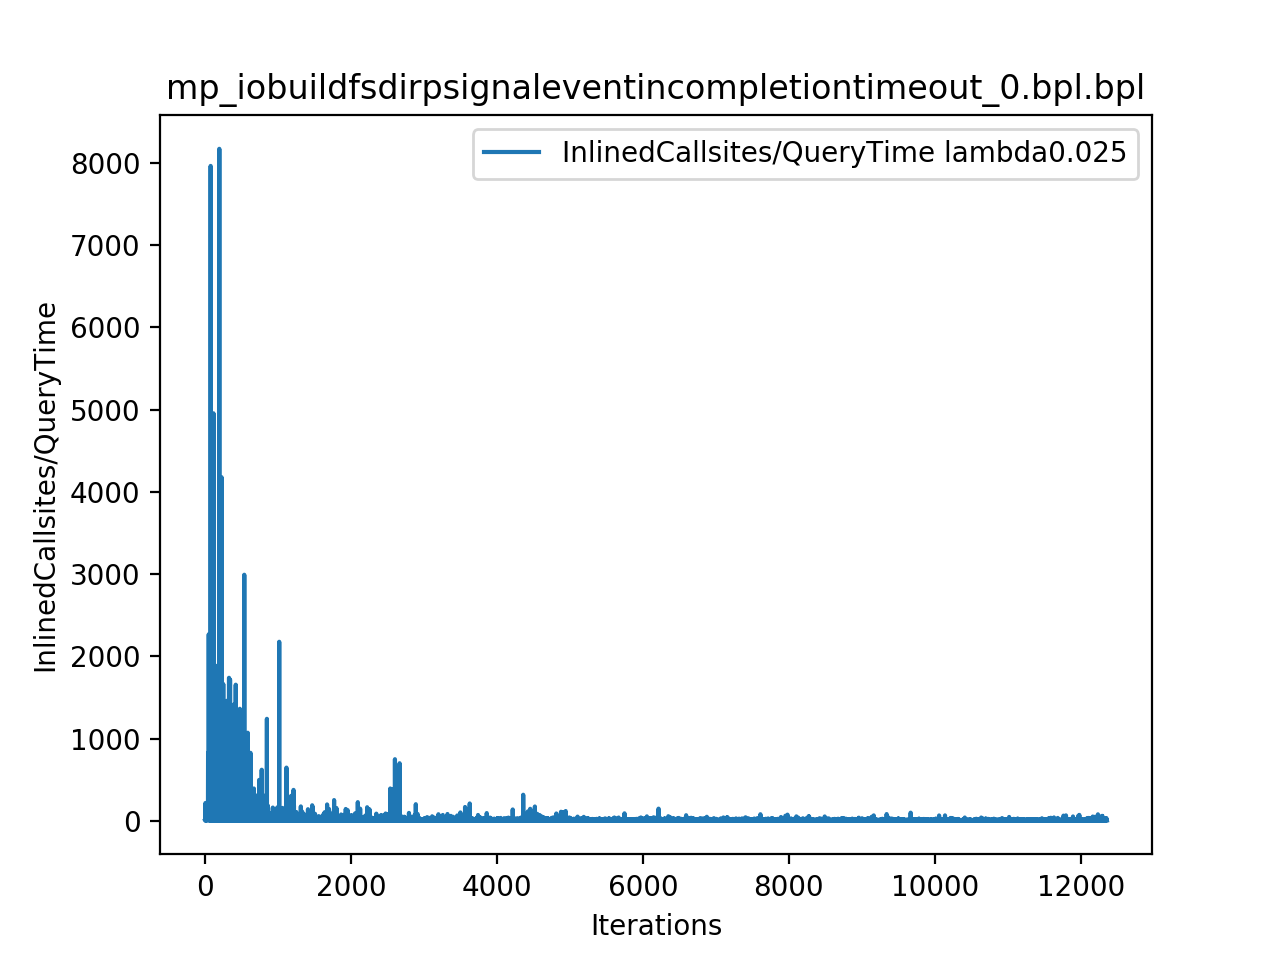
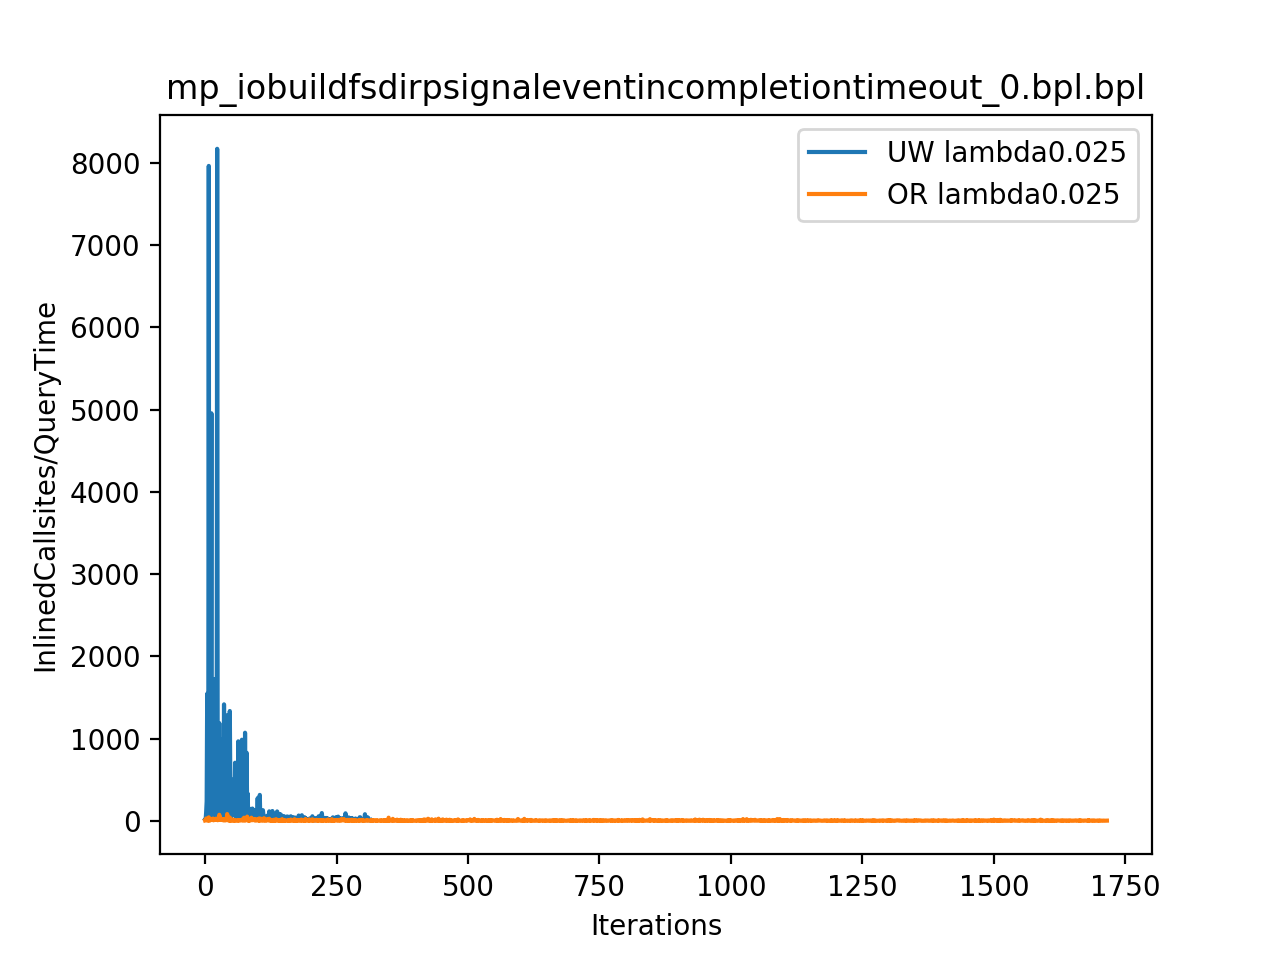
Updated experiments results

diff --git a/PrantikVM/AcrossDifferentAlphaDecayFunctions.py b/PrantikVM/AcrossDifferentAlphaDecayFunctions.py
@@ -528,10 +528,16 @@ if makeCompiledCSV:
 
 folderList = ['lambda0.025']
 runList = ['Run1']
-
+#allfiles = ['Imapi_removelockrelease2_0.bpl.bpl.txt',
+# 'hw_irqliopassive2_0.bpl.bpl.txt',
+# 'mp_iobuildfsdirpsignaleventincompletiontimeout_0.bpl.bpl.txt',
+# 'parzip_nsremovelockmnremove_0.bpl.bpl.txt',
+# 'serial_markingqueuedirps_1.bpl.bpl.txt',
+# 'sys_zwregistrycreate_0.bpl.bpl.txt']
+allfiles = ['mp_iobuildfsdirpsignaleventincompletiontimeout_0.bpl.bpl.txt']
 # Plot combined grpah after merging all clients for every file
 for run in runList:
 #    plotCombinedInlining(runStatsInlining[run], folderList, allfiles)
 #    plotCombinedQuery(runStatsQuery[run], folderList, allfiles)
     plotCombinedIterations(runStatsIteration[run], folderList, allfiles)
-    plotJustIterations(runStatsIteration[run], folderList, allfiles)
+#    plotJustIterations(runStatsIteration[run], folderList, allfiles)
